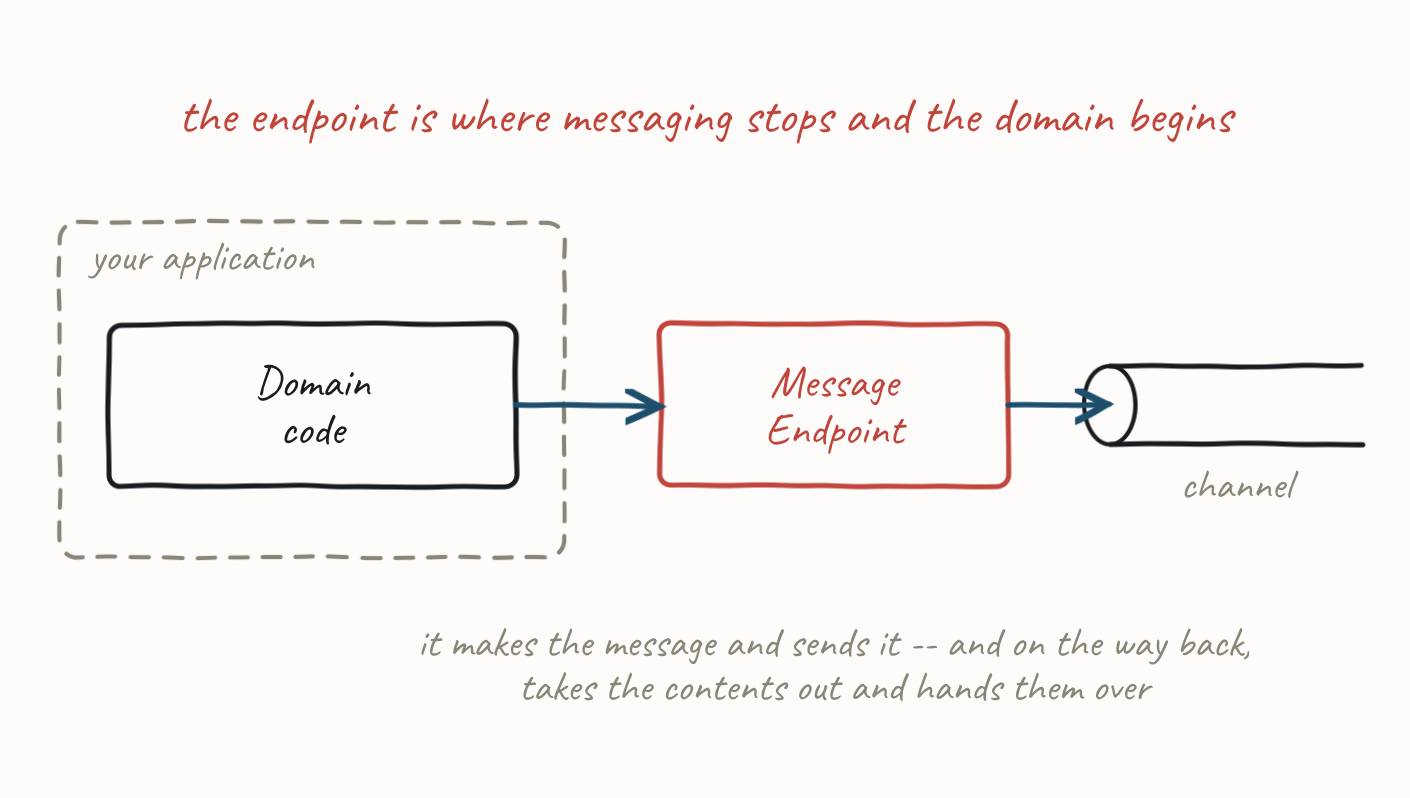
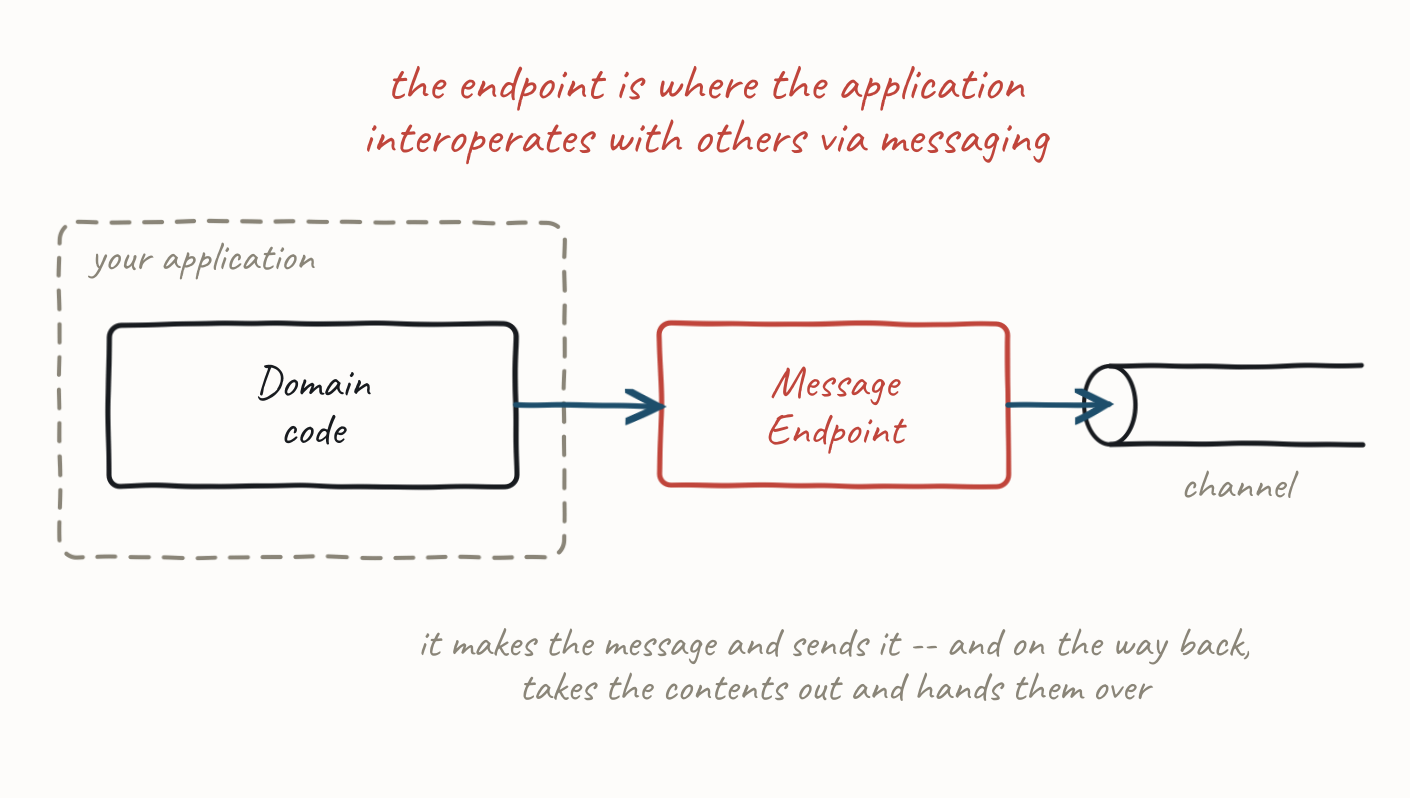
Message Endpoint: the callout is interop, not the seam
Ian on review: the endpoint is where the application interoperates with others
via messaging. "Where messaging stops and the domain begins" describes the
boundary the figure already draws; it does not say what the endpoint is for.

The new line runs to two rows at 17pt, which the canvas takes without widening.

Changed region(s): [[0.1248, 0.0902, 0.8738, 0.2105]]

diff --git a/tools/eip_figures.py b/tools/eip_figures.py
@@ -102,8 +102,8 @@ def message_endpoint():
     d.arrow(app, end, sides=("r", "l"))
     d.arrow(end, pipe, sides=("r", "l"))
     d.note(412, 166, "channel", MUTED, 14)
-    d.note(235, 44, "the endpoint is where messaging stops and the domain begins",
-           ANNOTATION, 17)
+    d.note(235, 42, "the endpoint is where the application\n"
+                    "interoperates with others via messaging", ANNOTATION, 17)
     d.note(278, 226, "it makes the message and sends it -- and on the way back,\n"
                      "takes the contents out and hands them over", MUTED, 14)
     return d
